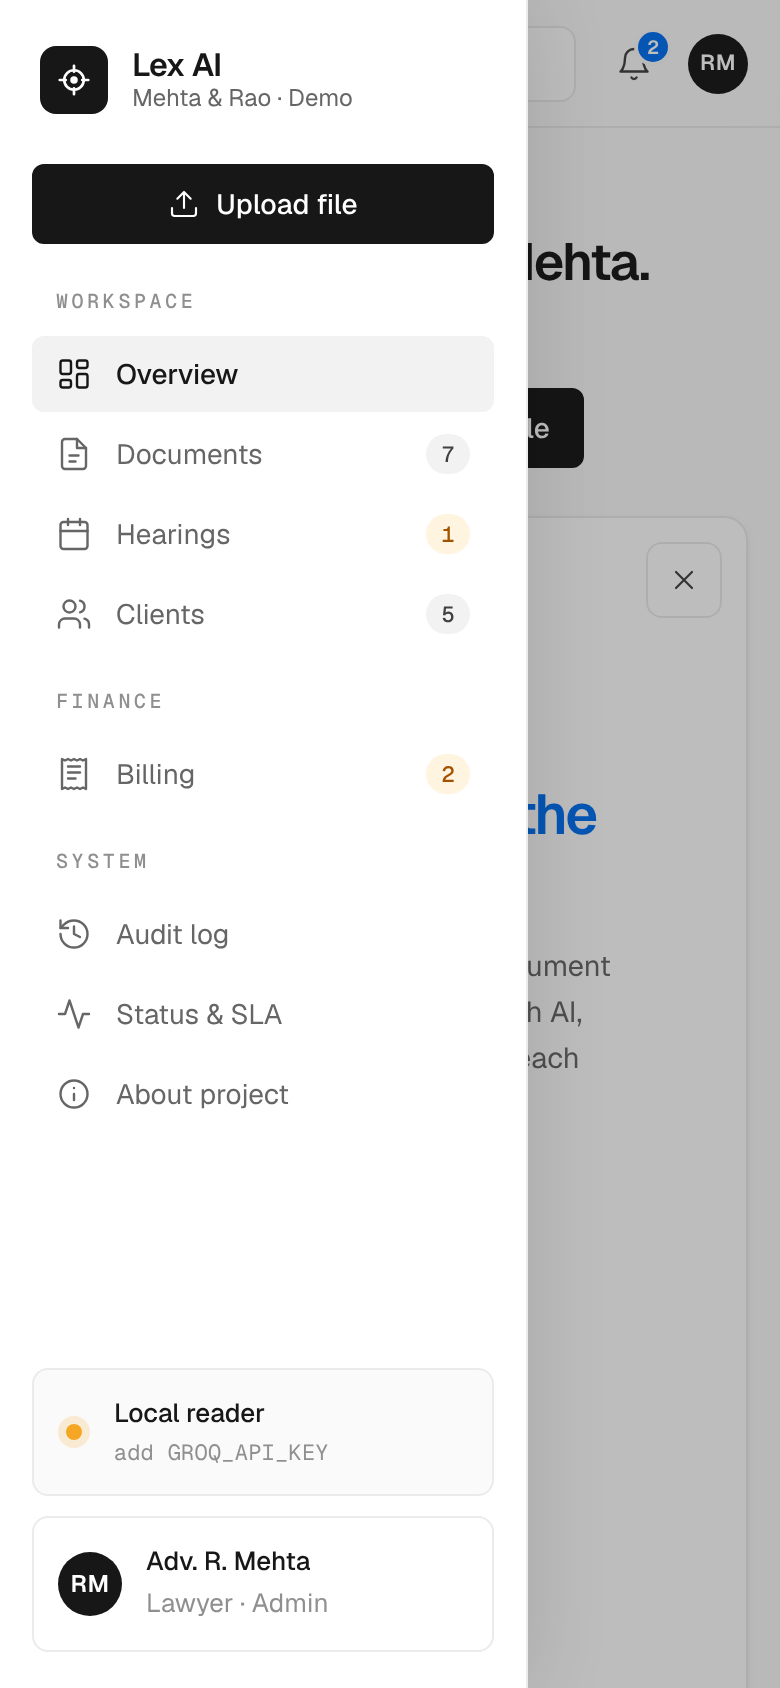
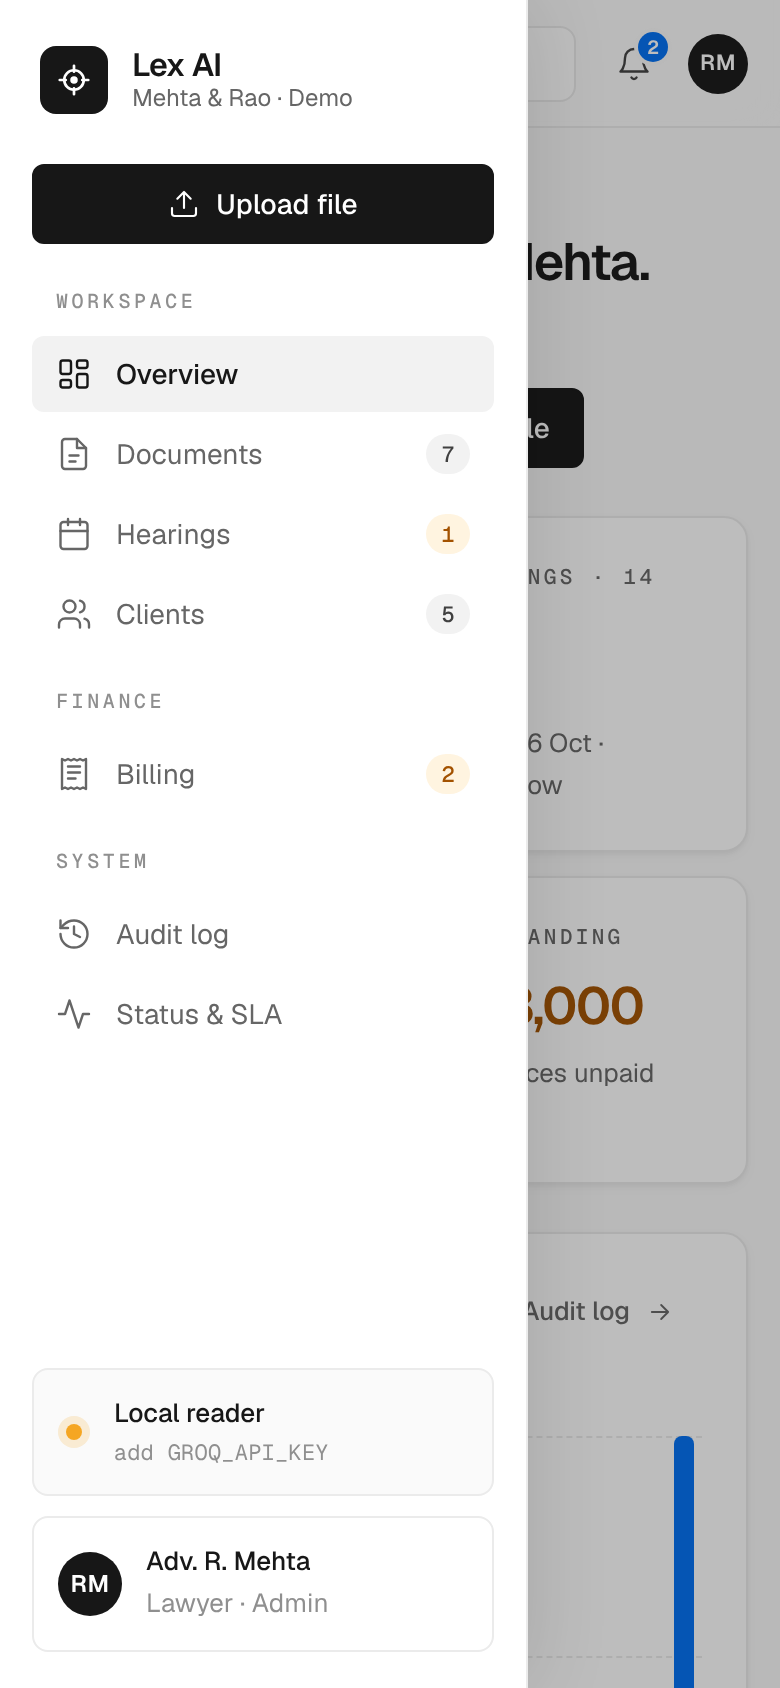
Go back to the fifth commit (271a3de)
Undo the presentation illustrations, the About page, the overview banner
and the README About section added in 4bc2aa9. The tree now matches
271a3de exactly.

Claude-Session: https://claude.ai/code/session_011q4ZS4tU75Q9LVacGCDdfM

diff --git a/client/src/styles.css b/client/src/styles.css
@@ -468,31 +468,6 @@ details.page-text pre { margin: 0; padding: 0 18px 18px; white-space: pre-wrap; 
 a.link { color: var(--blue-700); }
 a.link:hover { text-decoration: underline; }
 
-/* ------------------------------------------------------------ illustrations */
-
-.illustration { position: relative; margin: 0; overflow: hidden; border-radius: var(--radius); background: var(--surface-2); }
-.illustration img { display: block; width: 100%; height: 100%; object-fit: cover; }
-.illustration figcaption { position: absolute; right: 10px; bottom: 10px; padding: 4px 8px; border-radius: 6px;
-                           background: rgba(255, 255, 255, .88); border: 1px solid var(--line); font: 400 10.5px/1.2 var(--mono); color: var(--ink-2); }
-
-.hero { position: relative; display: grid; grid-template-columns: minmax(0, 1fr) minmax(0, 1.1fr); gap: 0; padding: 0; overflow: hidden; margin-bottom: 20px; }
-.hero-text { padding: 32px; display: flex; flex-direction: column; gap: 16px; justify-content: center; }
-.hero-text h2 { font-size: 28px; letter-spacing: -.035em; line-height: 1.15; }
-.hero-art { border-radius: 0; min-height: 260px; }
-.hero-steps { display: grid; grid-template-columns: repeat(auto-fill, minmax(150px, 1fr)); gap: 10px 16px; }
-.hero-step { display: flex; gap: 10px; align-items: flex-start; color: var(--blue-700); }
-.hero-step svg { margin-top: 2px; flex-shrink: 0; }
-.hero-step b { display: block; font: 500 10.5px/1.4 var(--mono); letter-spacing: .14em; text-transform: uppercase; color: var(--ink); }
-.hero-step span { font-size: 12.5px; color: var(--muted); }
-.hero-x { position: absolute; top: 12px; right: 12px; background: rgba(255, 255, 255, .85); border-color: var(--line); }
-
-.about-banner { aspect-ratio: 21 / 9; margin-bottom: 8px; }
-.about-grid { display: grid; grid-template-columns: minmax(0, .8fr) minmax(0, 1.6fr); gap: 20px; align-items: stretch; }
-.about-side { min-height: 100%; }
-.about-point { display: grid; gap: 10px; padding: 22px; }
-.about-end { display: grid; grid-template-columns: minmax(0, 1fr) minmax(0, 1fr); gap: 32px; align-items: center; }
-.about-end .illustration { aspect-ratio: 16 / 10; }
-
 /* ------------------------------------------------------------ footer */
 
 .foot { border-top: 1px solid var(--line); }
@@ -505,9 +480,6 @@ a.link:hover { text-decoration: underline; }
   .panel-grid { grid-template-columns: 1fr; }
 }
 @media (max-width: 1080px) {
-  .hero, .about-grid, .about-end { grid-template-columns: 1fr; }
-  .hero-art { min-height: 220px; max-height: 300px; }
-  .about-side { max-height: 420px; }
   .g4 { grid-template-columns: repeat(2, minmax(0, 1fr)); }
   .pipe { grid-template-columns: repeat(3, minmax(0, 1fr)); }
   .split { grid-template-columns: 1fr; }

diff --git a/client/src/components/Layout.tsx b/client/src/components/Layout.tsx
@@ -17,14 +17,13 @@ const NAV: { group: string; items: NavItem[] }[] = [
   { group: "System", items: [
     { to: "/activity", label: "Audit log", icon: "history" },
     { to: "/status", label: "Status & SLA", icon: "activity" },
-    { to: "/about", label: "About project", icon: "info" },
   ] },
 ];
 
 const CRUMBS: [RegExp, string][] = [
   [/^\/$/, "Overview"], [/^\/upload/, "Upload"], [/^\/documents\/\d+/, "Document"], [/^\/documents/, "Documents"],
   [/^\/hearings/, "Hearings"], [/^\/clients\/\d+/, "Client"], [/^\/clients/, "Clients"], [/^\/billing\/new/, "New invoice"],
-  [/^\/billing\/\d+/, "Invoice"], [/^\/billing/, "Billing"], [/^\/activity/, "Audit log"], [/^\/status/, "Status & SLA"], [/^\/about/, "About the project"],
+  [/^\/billing\/\d+/, "Invoice"], [/^\/billing/, "Billing"], [/^\/activity/, "Audit log"], [/^\/status/, "Status & SLA"],
 ];
 
 const isMobile = () => window.matchMedia("(max-width: 900px)").matches;

diff --git a/client/src/main.tsx b/client/src/main.tsx
@@ -5,7 +5,6 @@ import { PageHead } from "./components/common";
 import { FlashProvider } from "./components/Flash";
 import { Icon } from "./components/Icon";
 import { Layout } from "./components/Layout";
-import { About } from "./pages/About";
 import { Activity } from "./pages/Activity";
 import { Billing } from "./pages/Billing";
 import { ClientPage } from "./pages/ClientPage";
@@ -46,7 +45,6 @@ createRoot(document.getElementById("root")!).render(
             <Route path="billing/:id" element={<InvoicePage />} />
             <Route path="activity" element={<Activity />} />
             <Route path="status" element={<StatusPage />} />
-            <Route path="about" element={<About />} />
             <Route path="*" element={<NotFound />} />
           </Route>
         </Routes>

diff --git a/client/src/pages/Dashboard.tsx b/client/src/pages/Dashboard.tsx
@@ -5,7 +5,6 @@ import { api } from "../api";
 import { ActivityChart } from "../components/ActivityChart";
 import { DateBox, Loading, PageHead, Timeline, docBadge, hearingTone } from "../components/common";
 import { useFlash } from "../components/Flash";
-import { HeroBanner } from "../components/Illustration";
 import { Icon } from "../components/Icon";
 import { useApi, useTitle } from "../hooks";
 
@@ -52,8 +51,6 @@ export function Dashboard() {
         <Link className="btn ghost" to="/billing/new"><Icon name="receipt" size={16} /> New invoice</Link>
         <Link className="btn" to="/upload"><Icon name="upload" size={16} /> Upload file</Link>
       </PageHead>
-
-      <HeroBanner />
 
       <div className="grid g4 kpis">
         <Link className="card kpi" to="/documents">

diff --git a/client/src/components/Icon.tsx b/client/src/components/Icon.tsx
@@ -25,7 +25,6 @@ const PATHS: Record<string, string> = {
   "arrow-right": "<path d=\"M5 12h14M13 6l6 6-6 6\"/>",
   "arrow-left": "<path d=\"M19 12H5M11 18l-6-6 6-6\"/>",
   "plus": "<path d=\"M12 5v14M5 12h14\"/>",
-  "info": "<circle cx=\"12\" cy=\"12\" r=\"9\"/><path d=\"M12 16v-4M12 8h.01\"/>",
   "x": "<path d=\"M18 6 6 18M6 6l12 12\"/>",
   "download": "<path d=\"M12 3v12M7 10l5 5 5-5\"/><path d=\"M21 15v4a2 2 0 0 1-2 2H5a2 2 0 0 1-2-2v-4\"/>",
   "refresh": "<path d=\"M3 12a9 9 0 0 1 15-6.7L21 8M21 3v5h-5M21 12a9 9 0 0 1-15 6.7L3 16M3 21v-5h5\"/>",

diff --git a/README.md b/README.md
@@ -1,7 +1,5 @@
 <div align="center">
 
-<img src="client/public/images/hero-vault.jpg" alt="Legal files moving from paper into a secure glass cloud vault (AI-generated illustration)" width="100%">
-
 # Lex AI
 
 **Legal files, off paper and into the cloud.**
@@ -18,7 +16,7 @@ keeps a locked copy, writes a short AI summary, finds the next hearing date and 
 
 *Cloud Computing course project · 2026 · all data in the app is dummy data*
 
-<img src="docs/screenshots/dashboard.jpg" alt="Lex AI control panel: welcome banner, KPI tiles, activity chart, system health" width="100%">
+<img src="docs/screenshots/dashboard.png" alt="Lex AI control panel: KPI tiles, activity chart, system health, tasks and upcoming hearings" width="100%">
 
 </div>
 
@@ -26,7 +24,6 @@ keeps a locked copy, writes a short AI summary, finds the next hearing date and 
 
 ## Contents
 
-- [About](#about)
 - [The problem](#the-problem)
 - [What Lex AI does](#what-lex-ai-does)
 - [Quick start](#quick-start)
@@ -40,15 +37,7 @@ keeps a locked copy, writes a short AI summary, finds the next hearing date and 
 - [Troubleshooting](#troubleshooting)
 - [Team](#team)
 
-## About
-
-Lex AI is a five-person project for our 2026 Cloud Computing course. It shows how a small law practice could move client files off paper and into the cloud, with AI doing the reading and a person always making the final call.
-
-It is a working demo, not a product: one Node.js app (Express API + React UI) that runs on a laptop or as Docker containers behind nginx, the way it would on a single AWS EC2 instance. Groq's small, fast models do the AI work, so it stays cheap to run. Every client, case and amount in it is made up.
-
 ## The problem
-
-<img src="client/public/images/problem-paperwork.jpg" alt="Scattered legal papers, case folders, a phone and a hearing diary (AI-generated illustration)" width="300" align="right">
 
 Most small practices still run on phones, paper and diaries:
 
@@ -59,15 +48,7 @@ Most small practices still run on phones, paper and diaries:
 
 **The gap:** client files have no single safe home, and nothing reminds anyone of a hearing.
 
-<br clear="right">
-
 ## What Lex AI does
-
-<img src="client/public/images/solution-workspace.jpg" alt="Digital legal workspace with laptop, secure cloud and confirmed hearing reminder (AI-generated illustration)" width="300" align="right">
-
-Lex AI gives every client file **one safe home**: files are safe, searchable and summarized, and every hearing gets a reminder.
-
-<br clear="right">
 
 | | Feature | How |
 | --- | --- | --- |
@@ -81,7 +62,6 @@ Lex AI gives every client file **one safe home**: files are safe, searchable and
 | 🧾 | **Billing** | Itemized invoices, retainers, payments, balances and a printable PDF invoice |
 | 🧭 | **Audit log** | Every upload, view, AI run, confirmation, reminder and integrity check, with who did it |
 | 📈 | **Status & SLA** | Live P95/P99 latency, error rate, health checks, and which container answered |
-| ℹ | **About project** | The slide story in the app: problem, solution, how it is built, with the presentation illustrations |
 
 <table>
 <tr>
@@ -92,12 +72,7 @@ Lex AI gives every client file **one safe home**: files are safe, searchable and
 <td width="50%"><img src="docs/screenshots/billing.png" alt="Invoice INV-2026-014 with line items, retainer and balance due"><br><sub><b>Billing.</b> Itemized invoice with retainer, payments and a print-to-PDF button.</sub></td>
 <td width="50%"><img src="docs/screenshots/status.png" alt="Status page with live SLA targets, health and incident severity"><br><sub><b>Status & SLA.</b> Live numbers from the instance that answered, refreshed every 5 seconds.</sub></td>
 </tr>
-<tr>
-<td colspan="2"><img src="docs/screenshots/about.jpg" alt="About the project page with the presentation illustrations"><br><sub><b>About the project.</b> The story from the slides inside the app: the problem, the solution and how it is built.</sub></td>
-</tr>
 </table>
-
-The illustrations come from our presentation and are AI-generated. They live in [`client/public/images/`](client/public/images) and appear in the app on the overview banner and the *About project* page.
 
 ## Quick start
 
@@ -318,7 +293,6 @@ client/                 React app (TypeScript + Vite)
   src/pages/            One component per page
   src/components/       Sidebar layout, activity chart, flash messages, icons
   src/styles.css        The whole design system in one hand-written file
-  public/images/        Illustrations from the presentation (AI-generated)
 samples/                Files to upload during the demo
 docs/screenshots/       Images used in this README
 Dockerfile              Two-stage build, slim Node runtime
@@ -338,8 +312,6 @@ nginx.conf              Load balancing with failover
 | Proxy errors right after `npm run dev` | The API is still seeding demo data. Wait a second and refresh |
 
 ## Team
-
-<img src="client/public/images/vault-verified.jpg" alt="Legal files protected inside a cloud vault with a lock and verification check (AI-generated illustration)" width="100%">
 
 | Role | Name |
 | --- | --- |
